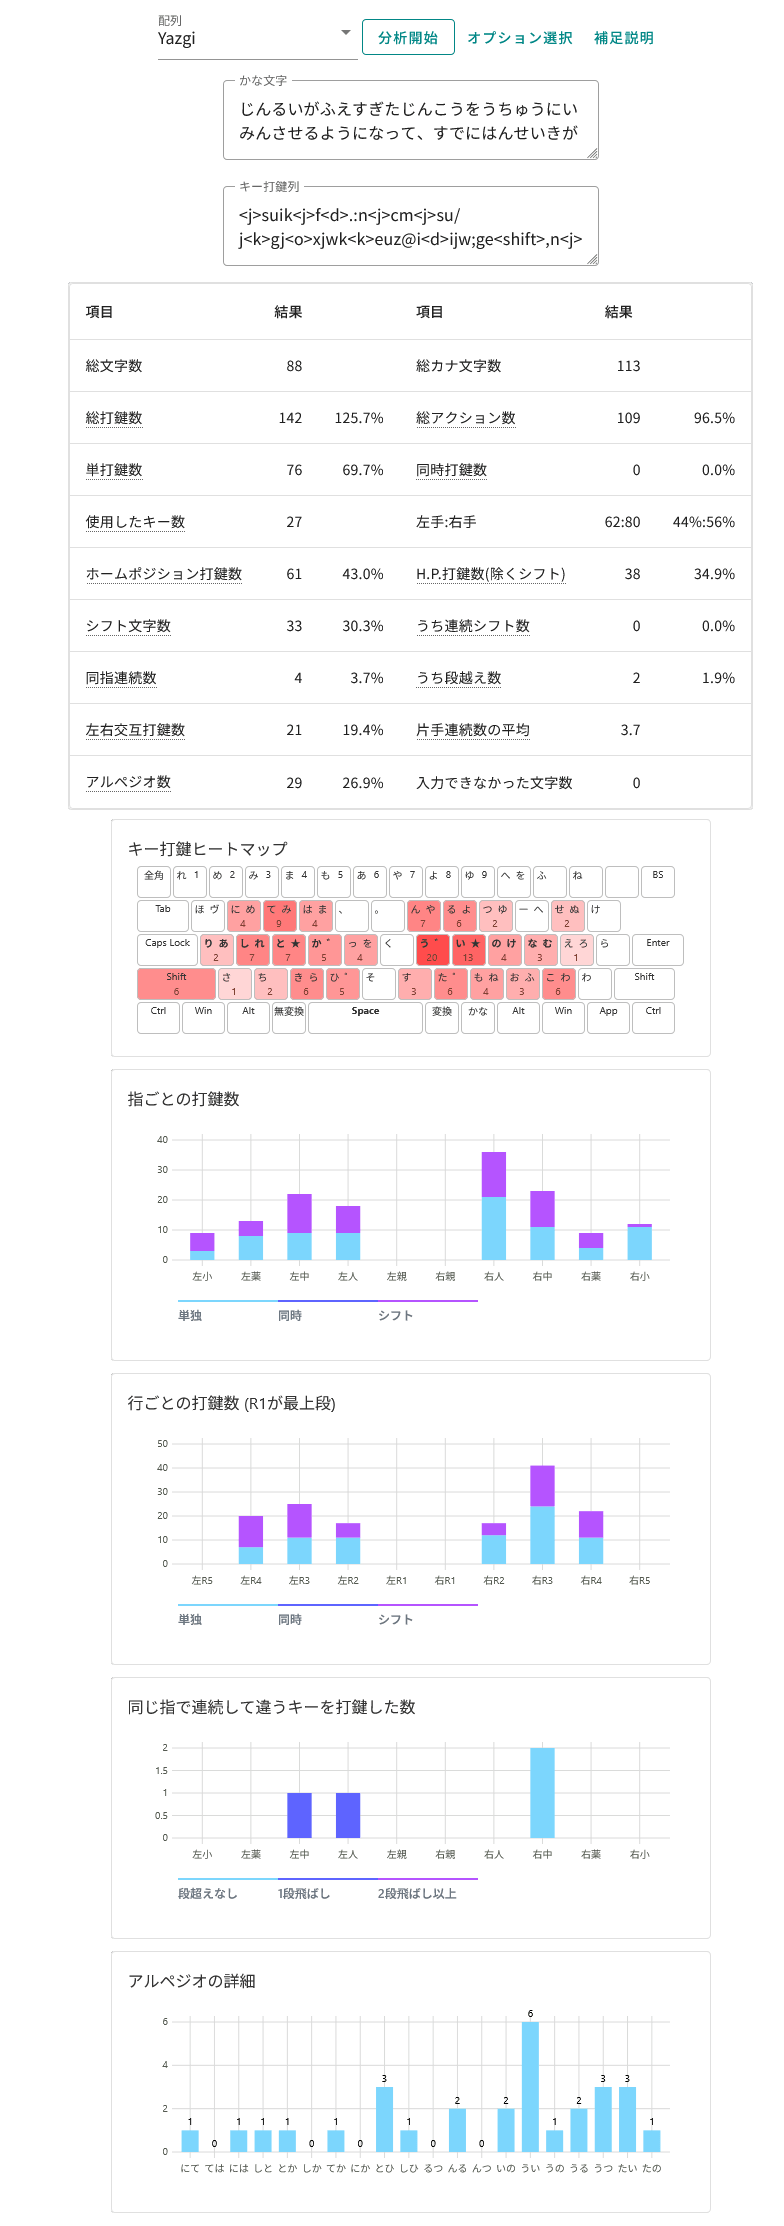
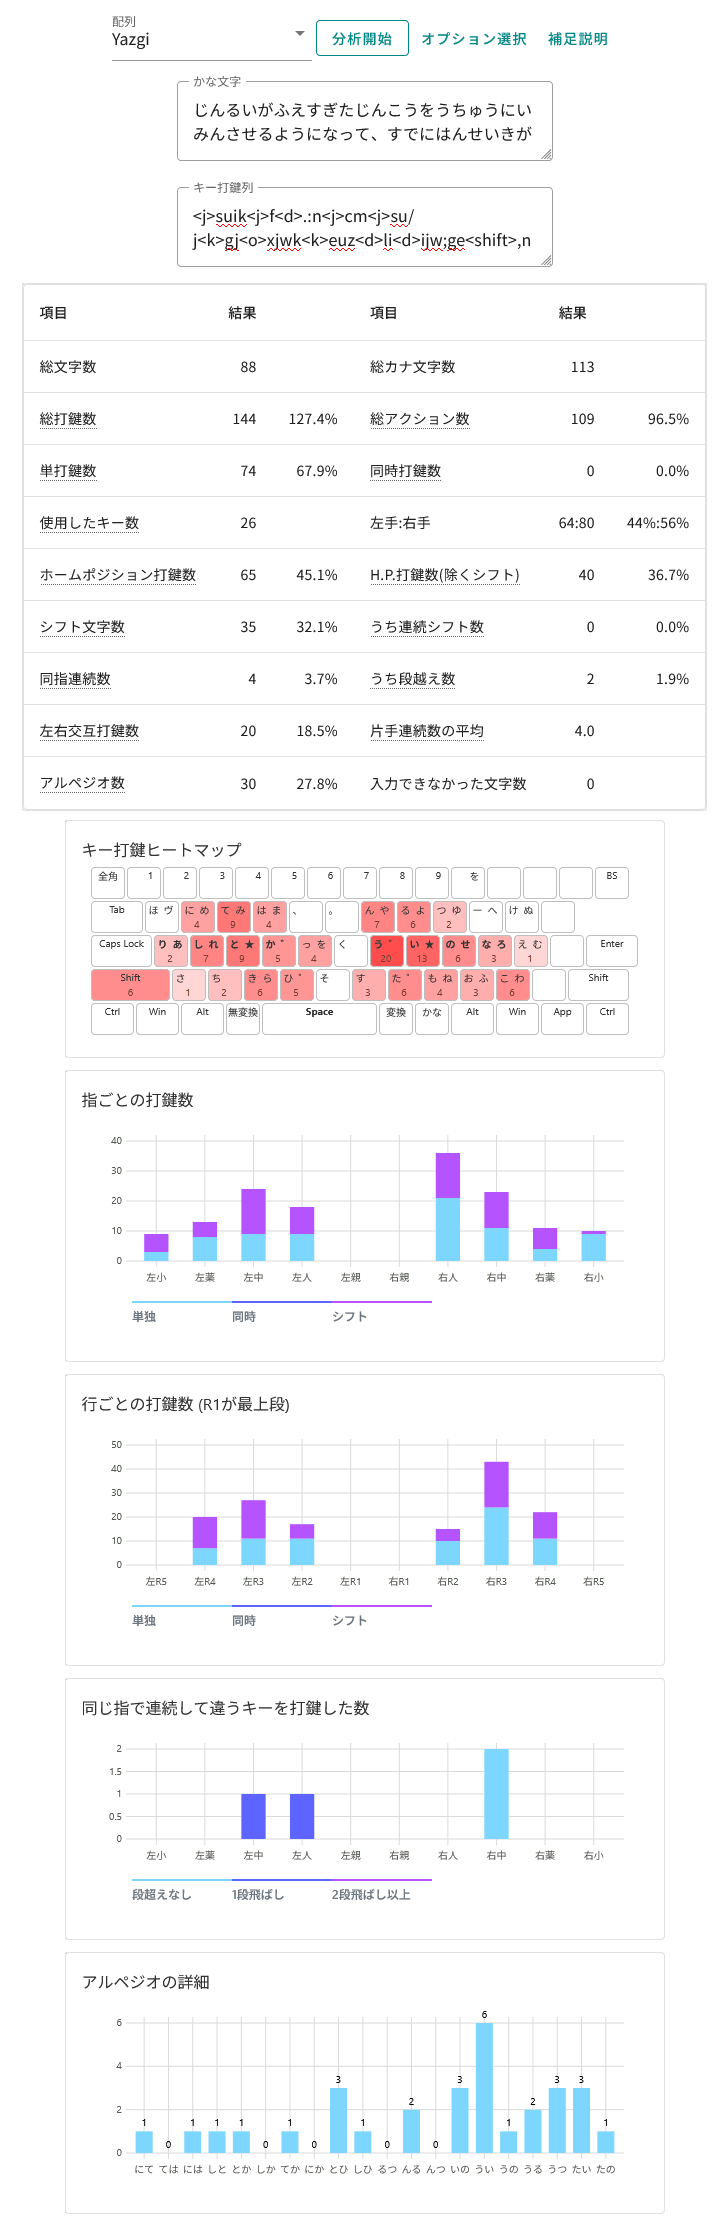
fix: update analysis to v0.1.4

diff --git a/docs/analysis.md b/docs/analysis.md
@@ -1,7 +1,7 @@
 # 性能分析
 
-> [!Warning]
-> 以下は、v0.1.2 時点での測定結果であることに注意。
+> [!Note]
+> 以下は、v0.1.4 時点での測定結果であることに注意。
 
 [keyboard_analyzer_jisgeta_yazgi](https://github.com/ffunatsu/keyboard_analyzer_jisgeta_yazgi) （日本語キー配列アナライザー、フォークしてJIS下駄とYazgiを追加した版） を使って分析。
 
@@ -19,7 +19,7 @@
 
 - キー打鍵列:
 
-> `<j>suik<j>f<d>.:n<j>cm<j>su/j<k>gj<o>xjwk<k>euz@i<d>ijw;ge<shift>,n<j>ewru@kc<j>fn<j>cekm<shift>.x<o>cjl<k>r<d>/al<i>c<f>mk;<j>su/jdsr<j>suikl<f>mkwl/<i>cjd;a<shift>,vd<j>vdrv/<j>e/<k>gj<k>e<shift>,v<f>me<shift>,vsesu<j>ekgm<shift>.`
+> `<j>suik<j>f<d>.:n<j>cm<j>su/j<k>gj<o>xjwk<k>euz<d>li<d>ijw;ge<shift>,n<j>ewru<d>lkc<j>fn<j>cekm<shift>.x<o>cjl<k>r<d>/al<i>c<f>mk;<j>su/jdsr<j>suikl<f>mkwl/<i>cjd;a<shift>,vd<j>vdrv/<j>e/<k>gj<k>e<shift>,v<f>me<shift>,vsesu<j>ekgm<shift>.`
 
 ![../docs/yazgi_analysis_1.png](../docs/yazgi_analysis_1.png)
 
@@ -35,7 +35,7 @@
 
 - キー打鍵列:
 
-> `<k>aanrf<d>/<f>p<j>e.<d>,:zul<d>i/wn<d>/ge<shift>,;uw,ni/d<j>f;kl<j>ede,mkho<j>hmkhosr<j>s<k>wek<k>rsm<shift>.kx<shift>,wfkr.<d>,:zul<d>iu<j>ekiqu<k>gl<j>vke<k>em:<k>s<j>d<shift>,v/wr:,fk<d>/,;kl<j>en<shift>.<g>f:<d>ufk<d>/l;kqu;ue<shift>,;ul<d>uhw,mm;k<u>z;kld<k>aanr.,k<k>rsm<shift>.enterenterv/<j>e<k>aanr<shift>,<k>am<k>rl;f<j>e<shift>,v;<j>chlhza<k>gohgm<k>cmlsk<f>m<d>]j:<k>s<j>d<shift>,.c<k>a<j>fgev;<j>ch<k>go<d>;l,<k>wu<j>dhzks<shift>,<j>djs<d>ijfdfu<j>f:ek<k>rsm<j>hdkge,<shift>,vi<k>r<j>e<k>aoks<shift>,dge,<d>,<d>;he<k>am<k>r,<k>r<d>/<k>c;fgml<j>e<shift>,/<k>s,mk<d>pu<f>mgml<j>en<j>f<shift>.v/<d>pkc;a<shift>,<m>vuhl<k>w<k>gsmrhjz<j>c<j>fxfh<k>grsgecml<j>en<shift>.v<k>s<f>m:;<k>c<shift>,vu;w<k>w<f>n<k>csk/d<j>e,<k>aa<k>r@u<j>esm<shift>.z<k>cw<k>aandser<shift>,vljz<j>c<j>f<g>f<j>djs<d>ij<shift>1space<j>djs<d>ij<shift>1spacex/hs<u>xj<j>v<shift>1do<f>.<d>uhl<k>gckmdc,<shift>,v<k>s<j>fvu;w<d>pue/<f>mdr.,k<k>r@u<j>esm<j>h<k>adf<k>cfu<j>f:e<k>em<k>c<shift>,/<k>s,<d>.s<j>cw.,j<f>pc<f>mgml<j>en:<k>s<j>d<shift>,<j>e,/ldcwr<shift>,v<k>s<j>f<j>/hs<f>@u;/dw.,:ml<j>en<shift>.<j>e,vljz<j>c<j>fqudjw<shift>,<i>xgcl<m>q:gdf<k>cfk<o>xj<j>d:k<j>hfk<o>xj<j>d:k<k>gda<f>msev<k>s<k>g;<j>f<k>w<shift>,vse<k>rm<k>a<d>/eef:<f>msmdc<shift>,<k>aan,d<j>v<k>a<j>fa<k>rsm<shift>.enterenterdkjl,<shift>,<i>xgcl<m>q:gd;uf<j>f<k>aijz<j>cr/<k>s<k>r<j>e<k>em/d<j>f;ks<shift>,v/f<k>cda<f>mnd:k<k>g,gekijz<j>c;uf,<k>em/d;k<j>v<shift>,dkjlw<o>cjwc<j>fokmf<k>c<j>en<shift>.v/<j>e<shift>,<i>cj<k>e<j>h<i>cj<k>esusuw;gm<k>aanr<shift>,jz<j>cl<k>ad<k>g.gf:elr<k>c<k>g<d>i/<j>cge<shift>,v<k>s<j>fs<f>[<k>elsml<shift>,.gc;jz<j>cl<k>a;wd<j>v/<d>;l<k>g<shift>,<j>ca<j>cald/<d>]<j>e<k>eo:<k>rsm<shift>.o<j>cl<o>sufuw<shift>,<k>aan,vl<k>ad<k>g.gf:ed<j>v/<k>e<k>rsm<shift>.`
+> `<k>aanrf<d>/<f>p<j>e.<d>,:zul<d>i/wn<d>/ge<shift>,;uw,ni/d<j>f;kl<j>ede,mkho<j>hmkhosr<j>s<k>wek<k>rsm<shift>.kx<shift>,wfkr.<d>,:zul<d>iu<j>ekiqu<k>gl<j>vke<k>em@<k>s<j>d<shift>,v/wr:,fk<d>/,;kl<j>en<shift>.<g>f:<d>ufk<d>/l;kqu;ue<shift>,;ul<d>uhw,mm;k<u>z;kld<k>aanr.,k<k>rsm<shift>.enterenterv/<j>e<k>aanr<shift>,<k>am<k>rl;f<j>e<shift>,v;<j>chlhza<k>gohgm<k>cmlsk<f>m<d>;j@<k>s<j>d<shift>,.c<k>a<j>fgev;<j>ch<k>go<d>:l,<k>wu<j>dhzks<shift>,<j>djs<d>ijfdfu<j>f:ek<k>rsm<j>hdkge,<shift>,vi<k>r<j>e<k>aoks<shift>,dge,<d>,<d>:he<k>am<k>r,<k>r<d>/<k>c;fgml<j>e<shift>,/<k>s,mk<d>pu<f>mgml<j>en<j>f<shift>.v/<d>pkc;a<shift>,<m>vuhl<k>w<k>gsmrhjz<j>c<j>fxfh<k>grsgecml<j>en<shift>.v<k>s<f>m@;<k>c<shift>,vu;w<k>w<f>n<k>csk/d<j>e,<k>aa<k>r<d>lu<j>esm<shift>.z<k>cw<k>aandser<shift>,vljz<j>c<j>f<g>f<j>djs<d>ij<shift>1space<j>djs<d>ij<shift>1spacex/hs<u>xj<j>v<shift>1do<f>.<d>uhl<k>gckmdc,<shift>,v<k>s<j>fvu;w<d>pue/<f>mdr.,k<k>r<d>lu<j>esm<j>h<k>adf<k>cfu<j>f:e<k>em<k>c<shift>,/<k>s,<d>.s<j>cw.,j<f>pc<f>mgml<j>en@<k>s<j>d<shift>,<j>e,/ldcwr<shift>,v<k>s<j>f<j>/hs<f>@u;/dw.,:ml<j>en<shift>.<j>e,vljz<j>c<j>fqudjw<shift>,<i>xgcl<m>q@gdf<k>cfk<o>xj<j>d@k<j>hfk<o>xj<j>d@k<k>gda<f>msev<k>s<k>g;<j>f<k>w<shift>,vse<k>rm<k>a<d>/eef@<f>msmdc<shift>,<k>aan,d<j>v<k>a<j>fa<k>rsm<shift>.enterenterdkjl,<shift>,<i>xgcl<m>q@gd;uf<j>f<k>aijz<j>cr/<k>s<k>r<j>e<k>em/d<j>f;ks<shift>,v/f<k>cda<f>mnd@k<k>g,gekijz<j>c;uf,<k>em/d;k<j>v<shift>,dkjlw<o>cjwc<j>fokmf<k>c<j>en<shift>.v/<j>e<shift>,<i>cj<k>e<j>h<i>cj<k>esusuw;gm<k>aanr<shift>,jz<j>cl<k>ad<k>g.gf@elr<k>c<k>g<d>i/<j>cge<shift>,v<k>s<j>fs<f>[<k>elsml<shift>,.gc;jz<j>cl<k>a;wd<j>v/<d>:l<k>g<shift>,<j>ca<j>cald/<d>;<j>e<k>eo@<k>rsm<shift>.o<j>cl<o>sufuw<shift>,<k>aan,vl<k>ad<k>g.gf@ed<j>v/<k>e<k>rsm<shift>.`
 
 ![../docs/yazgi_analysis_2.png](../docs/yazgi_analysis_2.png)
 
@@ -49,6 +49,6 @@
 
 - キー打鍵列:
 
-> `:g<i>sj<j>rur<shift>,:o:cw<d>.h<k>r<k>sizk<j>qj<j>e<shift>,@g:g<o>cj<shift>,rg:g<o>cjd;<k>c<f>.<f>mkzul:g<o>cj:k<j>e<k>ai<shift>./o<f>ok<o>xjlfh<f>m<k>r<j>h<i>c<f>mkfhzk<j>qjlzk<j>qjsof<k>czu;z<k>sim<k>w<shift>,fh<k>g,m;k<shift>...czr<d>uh2;lm<j>e<k>aa<shift>,@g:g<o>cj<d>urg:g<o>cjlzk<j>qj<d>ia,xkzk<shift>.@k<i>zj<i>zjmklx<o>xjwr15<k>ru<shift>^40<k>ru//<k>rkh<d>]<shift>lek<j>d<d>.h<k>r<k>seki<shift>.:g<i>sj<j>rur<shift>,;w<o>sikfl:o:c<j>c<v>8j/kus<k>g<d>.hu<j>e.a<shift>,/<k>s<k>cr:g<i>sj<j>rul<k>ai<u>ff<o>aj<d>u/v<k>wf<o>aj;kw<d>.h<k>r<k>seki<shift>.<o>sg:o;<j>d<j>e:gfu;kvzk<j>qj<j>f<i>sj<j>fk<k>gj:id<shift>,:g<i>sj<j>ru;klzk<j>qj/gfh:k<j>f<d>pufnid<j>dj<j>sw<shift>,<k>a<k>cmwzk<j>qj<k>rh<i>zjwzk<j>qj@g<u>xhkusl<o>z<d>ijmk<j>fro<f>[uni<shift>./<k>s<k>g:g<i>sj<j>rulfg@kfd<d>i<f>.<shift>./<k>s<k>cldjmu<m>rh<o>z<d>ijmk<d>uvlml@g<u>xhkus;<j>d<k>gfkse:g<i>sj<j>rur:gfu;kvw@g<u>xhs<shift>,:g<i>sj<j>ru<j>djs<j>f<j>c<v>8j<o>sjsc<f>n<f>hx<k>g<d>.zk<j>e:g@u<k>g:k@kni<shift>./<k>s<k>gkx<j>ss:od<d>i<f>.<shift>.vl<j>/<shift>,//f<k>cfh<o>s<j>c<v>8j/kus<j>fqj<o>soz<k>si/dw<d>ige<shift>,:o:c<o>xjw<k>ai<;>f<f>.au<j>f<j>c<v>8j/s<shift>,z<k>cw:g<i>sj<j>ru<d>u@g:g<o>cj<j>fd<k>c<d>/<k>se<shift>,<i>cj/;s:o@u<j>ffu@kni<shift>./<k>s<k>gw<j>ss:od<d>i<f>.<shift>.mk<j>fk<j>efm<k>rgm:g<i>sj<j>rud<;>f<f>.au.<d>i<j>vv<k>swd<k>c<d>/<k>sm@g:g<o>cjlfm<k>ra<j>ffuvjsm,lr<g>ffz<f>.md<d>i<j>r<k>si<shift>.<j>h<j>c<v>8j/<f>r@u:k,zu<i>sjenterenter:kmkr<shift>,vfg@k<i>zjmk<j>er:u<j>ru<i>zjl:kmk<j>e<k>ai<j>f<shift>,<o>sg:o;<j>d<j>e:gfu;kvzk<j>qj<j>f<i>sj<j>fk<k>gj:idfg@kfs<shift>,<j>cvh<j>h<k>aikrfa<k>asd<d>i<j>r<k>si<k>a<k>wp<j>r<i>zjldgc<k>gl<j>rsemk<k>gsueuz@<shift>,zk<o>sjecwr<d>pu<v>pk<i>zj<k>aikr<o>cj<i>zjw<d>pufni<shift>.z<k>cw;kvzk<j>qj<d>pl<d>,u<u>xh<j>/wr<shift>,:g<i>sj<j>ru;k<f>.lf<o>aj<j>fzk<j>qj/gfhl@k<f>.ulvdo<j>e<k>ai<k>ahxu<;>f<k>c<k>wudw<d>ige<o>xj.jwm<f>ha<d>i@<k>c<k>s<shift>,<k>w<f>m<k>r<d>ucl<d>ij;:kmkd;i<shift>.<j>h/<k>srf<o>aj;<j>dlzk<j>qj<i>sjcfu<j>f<o>xj.j<f>.<d>pd<k>ao<k>rif<k>c<j>e<k>ai<shift>.`
+> `@g<i>sj<j>rur<shift>,@o:cw<d>.h<k>r<k>sizk<j>qj<j>e<shift>,<d>lg@g<o>cj<shift>,rg@g<o>cjd;<k>c<f>.<f>mkzul@g<o>cj@k<j>e<k>ai<shift>./o<f>ok<o>xjlfh<f>m<k>r<j>h<i>c<f>mkfhzk<j>qjlzk<j>qjsof<k>czu;z<k>sim<k>w<shift>,fh<k>g,m;k<shift>...czr<d>uh2;lm<j>e<k>aa<shift>,<d>lg@g<o>cj<d>urg@g<o>cjlzk<j>qj<d>ia,xkzk<shift>.<d>lk<i>zj<i>zjmklx<o>xjwr15<k>ru<shift>^40<k>ru//<k>rkh<d>;<shift>lek<j>d<d>.h<k>r<k>seki<shift>.@g<i>sj<j>rur<shift>,;w<o>sikfl@o:c<j>c<v>8j/kus<k>g<d>.hu<j>e.a<shift>,/<k>s<k>cr@g<i>sj<j>rul<k>ai<u>ff<o>aj<d>u/v<k>wf<o>aj;kw<d>.h<k>r<k>seki<shift>.<o>sg@o;<j>d<j>e@gfu;kvzk<j>qj<j>f<i>sj<j>fk<k>gj@id<shift>,@g<i>sj<j>ru;klzk<j>qj/gfh@k<j>f<d>pufnid<j>dj<j>sw<shift>,<k>a<k>cmwzk<j>qj<k>rh<i>zjwzk<j>qj<d>lg<u>xhkusl<o>z<d>ijmk<j>fro<f>[uni<shift>./<k>s<k>g@g<i>sj<j>rulfg<d>lkfd<d>i<f>.<shift>./<k>s<k>cldjmu<m>rh<o>z<d>ijmk<d>uvlml<d>lg<u>xhkus;<j>d<k>gfkse@g<i>sj<j>rur@gfu;kvw<d>lg<u>xhs<shift>,@g<i>sj<j>ru<j>djs<j>f<j>c<v>8j<o>sjsc<f>n<f>hx<k>g<d>.zk<j>e@g<d>lu<k>g@k<d>lkni<shift>./<k>s<k>gkx<j>ss@od<d>i<f>.<shift>.vl<j>/<shift>,//f<k>cfh<o>s<j>c<v>8j/kus<j>fqj<o>soz<k>si/dw<d>ige<shift>,@o:c<o>xjw<k>ai<;>f<f>.au<j>f<j>c<v>8j/s<shift>,z<k>cw@g<i>sj<j>ru<d>u<d>lg@g<o>cj<j>fd<k>c<d>/<k>se<shift>,<i>cj/;s@o<d>lu<j>ffu<d>lkni<shift>./<k>s<k>gw<j>ss@od<d>i<f>.<shift>.mk<j>fk<j>efm<k>rgm@g<i>sj<j>rud<;>f<f>.au.<d>i<j>vv<k>swd<k>c<d>/<k>sm<d>lg@g<o>cjlfm<k>ra<j>ffuvjsm,lr<g>ffz<f>.md<d>i<j>r<k>si<shift>.<j>h<j>c<v>8j/<f>r<d>lu@k,zu<i>sjenterenter@kmkr<shift>,vfg<d>lk<i>zjmk<j>er:u<j>ru<i>zjl@kmk<j>e<k>ai<j>f<shift>,<o>sg@o;<j>d<j>e@gfu;kvzk<j>qj<j>f<i>sj<j>fk<k>gj@idfg<d>lkfs<shift>,<j>cvh<j>h<k>aikrfa<k>asd<d>i<j>r<k>si<k>a<k>wp<j>r<i>zjldgc<k>gl<j>rsemk<k>gsueuz<d>l<shift>,zk<o>sjecwr<d>pu<v>pk<i>zj<k>aikr<o>cj<i>zjw<d>pufni<shift>.z<k>cw;kvzk<j>qj<d>pl<d>,u<u>xh<j>/wr<shift>,@g<i>sj<j>ru;k<f>.lf<o>aj<j>fzk<j>qj/gfhl<d>lk<f>.ulvdo<j>e<k>ai<k>ahxu<;>f<k>c<k>wudw<d>ige<o>xj.jwm<f>ha<d>i<d>l<k>c<k>s<shift>,<k>w<f>m<k>r<d>ucl<d>ij;@kmkd;i<shift>.<j>h/<k>srf<o>aj;<j>dlzk<j>qj<i>sjcfu<j>f<o>xj.j<f>.<d>pd<k>ao<k>rif<k>c<j>e<k>ai<shift>.`
 
 ![../docs/yazgi_analysis_3.png](../docs/yazgi_analysis_3.png)
